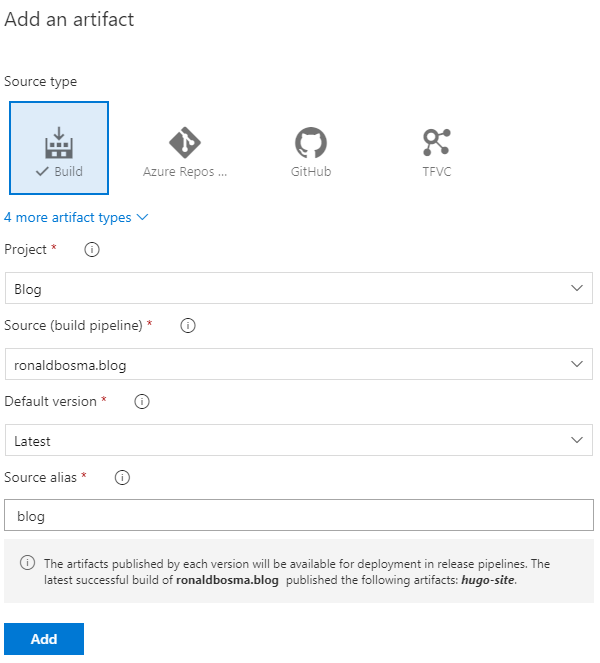
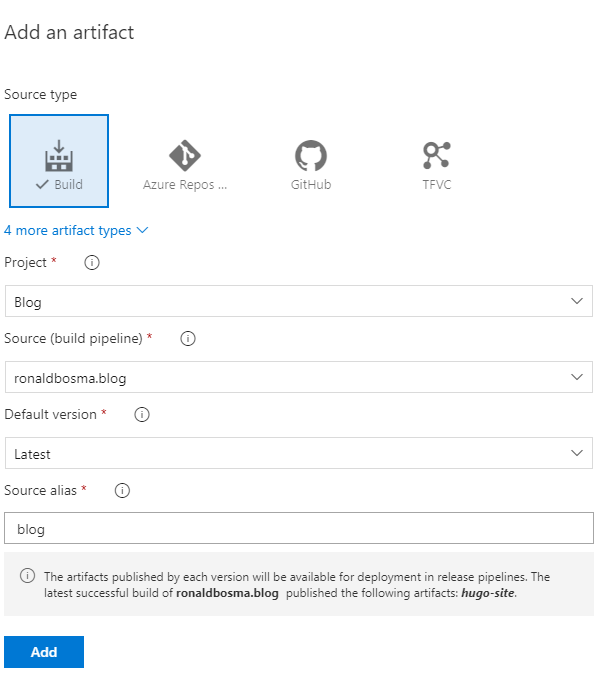
Fixed some text. Added some whitespace above the images.

diff --git a/content/blog/publishing-hugo-blog-using-azure-devops.md b/content/blog/publishing-hugo-blog-using-azure-devops.md
@@ -4,7 +4,7 @@ date: 2019-03-24T00:00:00+01:00
 publishdate: 2019-03-24T00:00:00+01:00
 lastmod: 2019-03-24T00:00:00+01:00
 image: "images/blog/publishing-hugo-blog-using-azure-devops.jpg"
-tags: []
+tags: [ "Azure DevOps", "Continuous Integration" ]
 comments: true
 draft: true
 ---
@@ -13,9 +13,9 @@ In this post I'll give a step-by-step explanation on how I publish my Hugo blog 
 
 ### Preperations
 
-In Azure Devops you'll need a project that has the 'Pipelines' Azure DevOps service enabled. You can enable this service in your Project settings.
+You'll need a Azure DevOps project that has the 'Pipelines' Azure DevOps service enabled. You can enable this service in your Project settings.
 
-There are also two extension we'll need to intall from the Marketplace. These will be installed at the Organization level in Azure DevOps. So be sure you have the proper permissions.
+There are also two extension we'll need to intall from the Marketplace. These will be installed at the Organization level in Azure DevOps. So be sure you have the proper permissions!
 
 #### Install the Hugo extension
 
@@ -25,25 +25,27 @@ After signing in. Click 'Get it free'. Select your Azure DevOps organization and
 
 #### Install the GitHub Pages Publish extension
 
-We also need the GitHub Pages Publish extension to publish our Hugo site to GitHub pages. You can find it [here](https://marketplace.visualstudio.com/items?itemName=AccidentalFish.githubpages-publish) in the Marketplace.
+We also need the GitHub Pages Publish extension to publish our Hugo site to GitHub Pages. You can find it [here](https://marketplace.visualstudio.com/items?itemName=AccidentalFish.githubpages-publish) in the Marketplace.
 
 Click 'Get it free' again. Select your Azure DevOps organization and click 'Install'.
 
 #### Generate GitHub Personal Access Token
 
-We're going to need a GitHub Personal Access Token to publish the Hugo site to our GitHub pages repository. So login to GitHub and follow these steps.
+We're going to need a GitHub Personal Access Token to publish the Hugo site to our GitHub Pages repository. So login to GitHub and follow these steps.
 
 - Click in top right and choose 'Settings'.  
  ![GitHub settings](../../images/blog/publishing-hugo-blog-using-azure-devops/access-token-settings.png)
 - Choose 'Developer settings' in the left menu.
 - Choose 'Personal access tokens' in the left menu.
-- Click 'Generate new token' button
+- Click the 'Generate new token' button.
 - Enter a description and select public_repo.  
  ![Generate token](../../images/blog/publishing-hugo-blog-using-azure-devops/access-token-generate.png)
 - Click 'Generate token' at the bottom of the page.
 - Copy the token for later use.
 
 ### Generate Hugo site
+
+Now that we're finished with the preperations it's time to generate our Hugo site.
 
 #### Create build pipeline linked to GitHub
 
@@ -62,14 +64,14 @@ We'll start with a new build pipeline. (_See [create your first pipeline](https:
 
 #### Configure the actual build pipeline
 
-First of we can [configure a trigger](https://docs.microsoft.com/en-us/azure/devops/pipelines/yaml-schema?view=azure-devops&tabs=schema#trigger). This will configure the build to trigger whenever code is pushed to master.
+First of we can [configure a trigger](https://docs.microsoft.com/en-us/azure/devops/pipelines/yaml-schema?view=azure-devops&tabs=schema#trigger). The following will configure the build to trigger whenever code is pushed to master.
 
 ```yaml
 trigger:
 - master
 ```
 
-The Hugo task we're going to use, uses PowerShell. So we'll have to use a Windows VM for as a build agent.
+The Hugo task we're going to use, uses PowerShell. So we'll have to use a Windows VM as a build agent.
 
 ```yaml
 pool:
@@ -85,7 +87,7 @@ steps:
   submodules: true  # true so Hugo theme submodule is checked out
 ```
 
-Next up is to generate the Hugo site. This will use the Hugo task we've installed earlier and output the result to the artifact staging directory.  
+Next up is to generate the Hugo site. This will use the Hugo task we've installed earlier. The output will be generated to the artifact staging directory.  
 
 ```yaml
 - task: HugoTask@1
@@ -94,9 +96,9 @@ Next up is to generate the Hugo site. This will use the Hugo task we've installe
     destination: '$(Build.ArtifactStagingDirectory)'
 ```
 
-You can find an description of the possible parameters [here](https://github.com/giuliov/hugo-vsts-extension/blob/master/README.md). Have a look at the [task.json](https://github.com/giuliov/hugo-vsts-extension/blob/master/hugo-task/task.json) if you're looking for the exact input names.
+You can find a description of the possible parameters [here](https://github.com/giuliov/hugo-vsts-extension/blob/master/README.md). Have a look at the [task.json](https://github.com/giuliov/hugo-vsts-extension/blob/master/hugo-task/task.json) if you're looking for the exact input names.
 
-The last step is to publish the generate Hugo site as an artifact of our build. This will make it possible use a release pipeline when publishing the site to GitHbub pages.
+The last step is to publish the generate Hugo site as an artifact of our build. This will make it possible to use a release pipeline when publishing the site to GitHbub pages.
 
 ```yaml
 - task: PublishPipelineArtifact@0
@@ -106,24 +108,22 @@ The last step is to publish the generate Hugo site as an artifact of our build. 
     targetPath: '$(Build.ArtifactStagingDirectory)'
 ```
 
-That's it. You can click 'Save and run. Provide a comment and click 'Save and run' again. This will create an 'azure-pipelines.yml' file in your repository containing your build pipeline. It will then trigger a build.
+That's it. You can click 'Save and run'. Provide a comment and click 'Save and run' again. This will create an 'azure-pipelines.yml' file in your repository containing your build pipeline. You can find the final azure-pipelines.yml [here](https://github.com/ronaldbosma/blog/blob/master/azure-pipelines.yml).
 
-You can find the final .yml [here](https://github.com/ronaldbosma/blog/blob/master/azure-pipelines.yml).
-
-After your build succeeds it should have an artifact as shown in the image below.
+Because of the trigger on master it will start a new build immediately. After your build succeeds it should have an artifact as shown in the image below.
 ![Build artifacts](../../images/blog/publishing-hugo-blog-using-azure-devops/hugo-site-artifacts.png)
 
 ### Release pipeline
 
-Now that we have a successful build it's time to create a release.
+Now that we have a successful build it's time to create a release. This will take the generated Hugo site and publish it to GitHub Pages.
 
 - Open your Azure DevOps project.
 - In the left menu choose Pipelines > Releases.
 - Click the 'New pipeline' button.
 - Select the 'Empty job' template.
-- Give the stage a name like 'GitHub Pages'.
+- Give the stage a name. E.g. 'GitHub Pages'.
 - Click 'Add an artifact'.
-- Select 'Build' as the source type and select the build we've just created as the source. Enter a different source alias if you want, like 'blog'.  
+- Select 'Build' as the source type. As the source, select the build we've just created. Enter a different source alias if you want, like 'blog'.  
   ![Add artifact](../../images/blog/publishing-hugo-blog-using-azure-devops/release-add-an-artifact.png)
   
 - Enable the 'Continuous deployment trigger' so the release will automatically start after the build succeeds.  
@@ -133,3 +133,5 @@ Now that we have a successful build it's time to create a release.
   - 'Documentation Source' should be something like '$(System.DefaultWorkingDirectory)/blog/*'. Where blog is the artifact alias you've configured.
   - Configure the 'GitHub Personal Access Token' as [a secret](https://docs.microsoft.com/en-us/azure/devops/pipelines/process/variables?view=azure-devops&tabs=yaml%2Cbatch#secret-variables) using a variable.  
   ![Publish to GitHub Pages configuration](../../images/blog/publishing-hugo-blog-using-azure-devops/release-publish-to-github-pages.png)
+
+  You can now trigger a new build. After the build succeeds the release will start and publish any change in your site to GitHub Pages.
